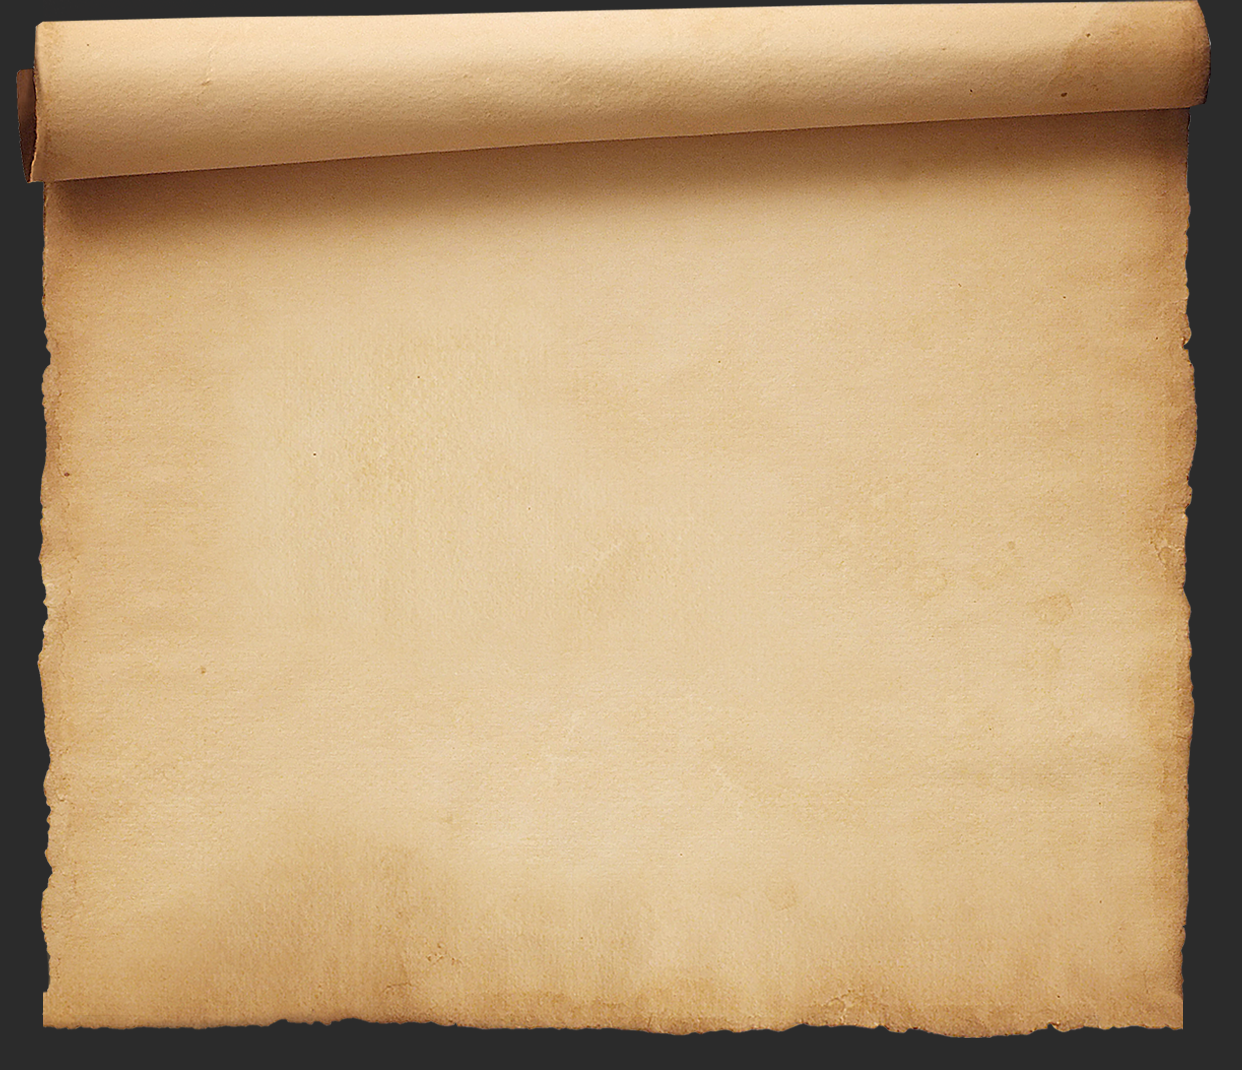
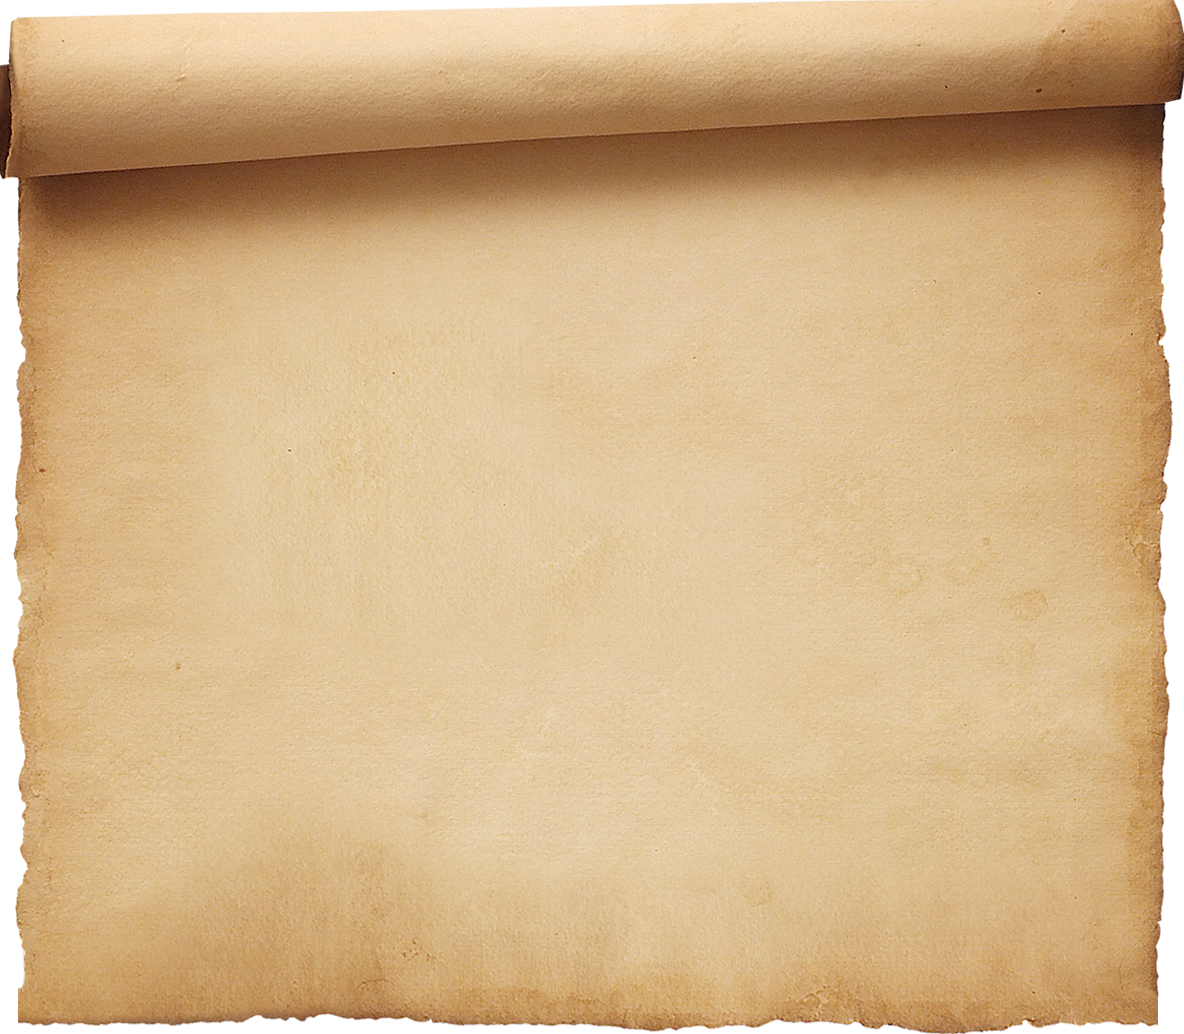
2016-02-19T18:16

diff --git a/frontEnd/js/ScrollBackground.js b/frontEnd/js/ScrollBackground.js
@@ -12,6 +12,7 @@ function ScrollBackground() {
     var mainHeight ;
     var rightMargin ;
     var $mainBlockDiv = $('#resultBlockNew') ;
+    var $resultBackground = $('#resultBackground') ;
 
     var $CaptionDiv ;           // шапка - заголовок свитка
     var $dataAreaDiv ;            // область данных
@@ -24,6 +25,7 @@ function ScrollBackground() {
     var kResize = {kx: 1, ky:1} ; // коэффициенты пересчёта по размеру экрана
     var dirImg ;
     var scrolling = {} ;         // текущая прокрутка
+    var formShowFlag = false ;
     //---------------------//
     var $movingSlider ;
     var _this = this ;
@@ -72,7 +74,7 @@ function ScrollBackground() {
                 y1:126,
                 x2: 1530 - 370 -30 ,
                 y2: 422,
-                y1Max : mainHeight - (422 - 126)
+                y1Max : mainHeight - (422 - 126) -10
             },
             img : {
                 file: 'slider.png'
@@ -84,6 +86,7 @@ function ScrollBackground() {
                 y1:126,
                 x2: 1530 - 370 - 50,
                 y2: mainHeight - 30
+
             },
             background : {
                 img: {
@@ -119,7 +122,7 @@ function ScrollBackground() {
         } ;
 
         kResizeClc() ;
-
+        $resultBackground.attr('hidden','hidden') ;
     } ;
     var mainSizes = function() {
         var place = mainBlock['place'] ;
@@ -143,6 +146,7 @@ function ScrollBackground() {
         $scrollLineDiv = $('#' + mainBlockId +'_scrollLine') ;
         $messageDiv = $('#' + mainBlockId +'_message') ;
         scrollEvents() ;
+
     } ;
     var kResizeClc = function() {
         var place = mainBlock['place'] ;
@@ -151,10 +155,10 @@ function ScrollBackground() {
         var screenWidth = $(window).width() ;
         var screenHeight = $(window).height() ;
         kResize['ky'] = Math.round((screenHeight/placeHeight)*10000)/10000 ;
-        var placeClcWidth = kResize['ky'] * placeClcWidth ;
+        var placeClcWidth = kResize['ky'] * placeWidth ;
         if (placeClcWidth > screenWidth*0.8) {
             var realWidth = Math.min(screenWidth*0.8,placeClcWidth) ;
-            kResize['kx'] = Math.round((realWidtht/placeClcWidth)*10000)/10000 ;
+            kResize['kx'] = Math.round((realWidth/placeWidth)*10000)/10000 ;
         } else {
             kResize['kx'] = kResize['ky'] ;
         }
@@ -173,6 +177,7 @@ function ScrollBackground() {
 
         $mainBlockDiv.css('height',ky * (y2 - y1)) ;
         var width = kx * (x2 - x1) ;
+
         $mainBlockDiv.css('width',width) ;
 
         $mainBlockDiv.css('left',(screenWidth - width)/2) ;
@@ -181,10 +186,13 @@ function ScrollBackground() {
         $mainBlockDiv.css('background-image','url("' + imgFile +'")') ;
         $mainBlockDiv.css('background-repeat','no-repeat') ;
         $mainBlockDiv.css('background-size','100% 100%') ;
+      //  $mainBlockDiv.css('background-color','black') ;
         $mainBlockDiv.css('z-index',10) ;
         $mainBlockDiv.css('overflow','hidden') ;
         //$mainBlockDiv.removeAttr('hidden') ;
+        $resultBackground.removeAttr('hidden') ;
         $mainBlockDiv.show( "blind", 1000);
+        formShowFlag = true ;
     } ;
     var dataBlockDefine = function() {
         internalBlockDefine('dataArea',dataArea) ;
@@ -213,10 +221,13 @@ function ScrollBackground() {
     var internalBlockDefine = function(blockName,block) {
         var mainId = $mainBlockDiv.attr('id') ;
         var place = block['place'] ;
-
-        var $blk = $('<div/>') ;
-        $blk.attr('id',mainId+'_'+blockName) ;
-        $mainBlockDiv.append($blk) ;
+        var blkId = mainId+'_'+blockName ;
+        var $blk = $('#' + blkId) ;
+        if ($blk.length === 0) {
+            $blk = $('<div/>') ;
+            $blk.attr('id',blkId) ;
+            $mainBlockDiv.append($blk) ;
+        }
         $blk.css('position','absolute') ;
         var x1 = place['x1'] ;
         var x2 = place['x2'] ;
@@ -234,13 +245,19 @@ function ScrollBackground() {
         $blk.css('left',kx * x1) ;
         if (block['img'] !== undefined) {
             var imgFile = dirImg + '/' + block['img']['file'];
-            var $img = $('<img/>');
-            $img.attr('src', imgFile);
+            var $img = $('#'+blkId + ' img') ;
+            if($img.length === 0) {
+               $img = $('<img/>');
+                $blk.append($img);
+                $img.attr('src', imgFile);
+            }
+
             $img.css('width', width);
             if (height !== undefined) {
                 $img.css('height', height);
             }
-            $blk.append($img);
+
+
         }
         if (block['background'] !== undefined) {
 
@@ -312,6 +329,11 @@ function ScrollBackground() {
      //       scrollingDebug() ;
      //   }) ;
        // ------ закрытие формы   --------//
+        captionClick() ;
+    } ;
+    var captionClick = function() {
+        // ------ закрытие формы   --------//
+        $CaptionDiv.off('click') ;
         $CaptionDiv.click(function(e) {
             var x = e.pageX;
             var y = e.pageY;
@@ -321,13 +343,16 @@ function ScrollBackground() {
             var width = kx *(mainBlock['place']['x2'] -  mainBlock['place']['x1']) ;
             var top = ky * mainBlock['place']['y1'] ;
             var height =  ky *(caption['place']['y2'] -  caption['place']['y1']) ;
-            if ((x - left) >= 0.7 * width && (y - top) <= 0.5 * height) {
+            if ((x - left) >= 0.5 * width && (y - top) <= 0.7 * height) {
 
                 $mainBlockDiv.hide( "explode", 1000);
                 $mainBlockDiv.empty() ;
                 scrolling.stop = true ;
+                formShowFlag = false ;
+                $resultBackground.attr('hidden','hidden') ;
             }
         }) ;
+
     } ;
     var scrollingBegin = function() {
         scrolling.stop = (scrolling.dyHidden <= 0) ;
@@ -478,5 +503,37 @@ function ScrollBackground() {
      */
     this.answerEnd = function() {
 
+    };
+    this.resize = function() {
+        if (formShowFlag) {
+            kResizeClc();
+            var screenWidth = $(window).width();
+            var place = mainBlock.place;
+            var x1 = place['x1'];
+            var x2 = place['x2'];
+            var y1 = place['y1'];
+            var y2 = place['y2'];
+            var kx = kResize['kx'];
+            var ky = kResize['ky'];
+            $mainBlockDiv.css('top', ky * y1);
+
+            $mainBlockDiv.css('height', ky * (y2 - y1));
+            var width = kx * (x2 - x1);
+
+            $mainBlockDiv.css('width', width);
+
+            $mainBlockDiv.css('left', (screenWidth - width) / 2);
+            //
+            dataAreaHiddenClc() ;
+            scrollingShow() ;
+            scrollingBegin() ;
+
+            internalBlockDefine('dataArea',dataArea) ;
+
+            internalBlockDefine('scrollLine', scrollLine);
+            internalBlockDefine('slider', slider);
+            internalBlockDefine('caption', caption);
+
+        }
     }
 }

diff --git a/frontEnd/js/UserInterface.js b/frontEnd/js/UserInterface.js
@@ -5,22 +5,24 @@ function UserInterface() {
     var smoke = new SmokeClouds();      // движение облаков
     var backgroundImg  ; // объект - элементы изображения
     var scrollBackground ;
+    var philosophyForm ;
     var centralCircle = {} ;            // центральный круг
     var stamp = {} ;                    // печать
     var screenClosed = false ;
     var $queryArea ;                    // область ввовда текста
-    var resizeFlag = false ;
     var resizeGo = false ;
     var resizeSteps = 0 ;
-    var RESIZE_TIME_DELAY = 500 ;        // задержка при контроле изменения размеров
-    var RESIZE_TAKTS_MAX = 2;            // число тактов, после которых фиксируются изменения размера
+    var RESIZE_TIME_DELAY = 200 ;        // задержка при контроле изменения размеров
+    var RESIZE_TAKTS_MAX = 1;            // число тактов, после которых фиксируются изменения размера
     var currentQuery = '' ;
+    var waitRequestType = false ;        // ожидание определения типа запроса(во избежании повторных нажатий)
+    var stopWait = false ;               //  остановить ожидания
     var _this = this ;
     //-----------------------------------//
     this.init = function() {
         backgroundImg = paramSet.backgroundImage ; // объект - элементы изображения
         scrollBackground = paramSet.scrollBackground ;
-
+        philosophyForm = paramSet.philosophyForm ;
         backgroundImg.init() ;
 
         scrollBackground.init() ;
@@ -30,37 +32,36 @@ function UserInterface() {
         centralCircleDefine() ;      // объект centralCircle - ценральный круг
         $(document).click(function (e) {
             if (isCentralCircleClick(e)) {
-  //              queryTextArea() ;
             }
             if (isStampClick(e)) {
+ //               if (!waitRequestType) {      // повторные не работают
+                    //                testScrollBackground() ;
 
-           //     scrollBackground.show() ;
-//                testScrollBackground() ;
 
+                    currentQuery = $queryArea.val();
+                    var requestGo = paramSet.requestGo;
+                    requestGo.setRequestText(currentQuery);
+                    var auto = true;
+                    //waitRequestType = true ;
+                    //waitRequestReady() ;    // ждёмс
 
-  //           if (false) {
-                 currentQuery = $queryArea.val();
-                 var requestGo = paramSet.requestGo;
-                 requestGo.setRequestText(currentQuery);
-                 var auto = true;
-                 //  сначала тип, потом Go -  по типу меняем круг
+                    requestGo.requestExecute(auto);
 
-                 requestGo.requestExecute(auto);
-    //         }
-        }else {
-              var philosophyForm = paramSet.philosophyForm ;
-                philosophyForm.stopShow() ;
-                backgroundImg.centralCircleShow('query') ;
-                var idText = backgroundImg.getIdText('query') ;
-                $queryArea = $('#'+idText) ;
-                $queryArea.attr('placeholder','введите вопрос') ;
-                $queryArea.val(currentQuery) ;
-                $queryArea.focus() ;
+ //               }
+            } else {
+                var philosophyForm = paramSet.philosophyForm;
+                philosophyForm.stopShow();
+                backgroundImg.centralCircleShow('query');
+                var idText = backgroundImg.getIdText('query');
+                $queryArea = $('#' + idText);
+                $queryArea.attr('placeholder', 'введите вопрос');
+                $queryArea.val(currentQuery);
+                $queryArea.focus();
             }
         });
  //       if (false) {
         $(window).on('resize', function() {
-            smoke.smokeResize();
+    //        smoke.smokeResize();
             resize() ;
         });
 
@@ -74,25 +75,41 @@ function UserInterface() {
  //}
 
     } ;
+    /**
+     * ожидание ответа о типе запроса
+     */
+    var waitRequestReady = function() {
+        var tmpTimer = setInterval(function () {
+            if (stopWait || requestGo.isAnswReady() ) {
+                clearInterval(tmpTimer);
+                waitRequestType = false ;
+                $queryArea.css('cursor','progress') ;
+                $queryArea.attr('readonly','readonly') ;
+            }else {
+                $queryArea.css('cursor','default') ;
+                $queryArea.removeAttr('readonly') ;
+            }
+
+        }, 300);
+    } ;
     var resize = function() {
-        resizeFlag =true ;
+        resizeSteps = 0;
         if (!resizeGo) {    // запустить таймер
             resizeGo = true;
             var tmpTimer = setInterval(function () {
-                if (resizeFlag) {
-                    resizeFlag = false;
+                if (++resizeSteps >= RESIZE_TAKTS_MAX) {    // конец изменения размера
+                    clearInterval(tmpTimer);
+                    stampDefine();              // объект stamp   - печать
+                    centralCircleDefine();      // объект centralCircle - ценральный круг
+                    backgroundImg.centralCircleShow('query');
+                    $queryArea.attr('placeholder', 'введите вопрос');
+                    $queryArea.focus();
+                    smoke.smokeGo();
+                    resizeGo = false;
                     resizeSteps = 0;
-                } else {
-                    if (++resizeSteps >= RESIZE_TAKTS_MAX) {    // конец изменения размера
-                        clearInterval(tmpTimer);
-                        resizeGo = false;
-                        resizeSteps = 0;
-                        stampDefine();              // объект stamp   - печать
-                        centralCircleDefine();      // объект centralCircle - ценральный круг
-                        smoke.smokeGo();
+                    philosophyForm.resize() ;
+                    scrollBackground.resize() ;
 
-
-                    }
                 }
 
             }, RESIZE_TIME_DELAY);

diff --git a/frontEnd/js/PhilosophyForm.js b/frontEnd/js/PhilosophyForm.js
@@ -8,6 +8,7 @@ function PhilosophyForm() {
     var animateStop = false ;
     var $resultBlock = $('#resultBlockPhilosophy') ;
     var $answerArea ;     // область вывода текста
+    var formShowFlag = false ;
     //----------------------------------//
     this.init = function() {
         backgroundImg = paramSet.backgroundImage ; // объект - компоненты изображения
@@ -23,6 +24,7 @@ function PhilosophyForm() {
      } ;
 
     this.queryGo = function() {
+       formShowFlag = true ;
        responseShow() ;
     } ;
 
@@ -32,6 +34,13 @@ function PhilosophyForm() {
     this.stopShow = function() {
         $resultBlock.empty() ;
         animateStop = true ;
+        formShowFlag = false ;
+    } ;
+    this.resize = function() {
+        if (formShowFlag) {
+            animateStop = true ;
+            responseShow() ;
+        }
     } ;
 
     var responseShow = function() {

diff --git a/frontEnd/styles/user.css b/frontEnd/styles/user.css
@@ -1,13 +1,14 @@
 /**--- фоновая картинка --**/
 body {
     background-image: url("../../images/userInterface/magic2.png");
-    background-size: cover;
+    background-size: 100% auto ; /*contain ;/*cover;*/
+    overflow: hidden;
     background-repeat: no-repeat;
 }
 /**--- представление результата --**/
 .result {
     /*background-image: url("../../images/userInterface/scroll_clear.png") ;*/
-    background-image: url("../../images/userInterface/scroll_clear.png") ;
+    background-image: url("../../images/userInterface/scroll_empty.png") ;
     background-size: auto 100%;
     background-repeat: no-repeat;
     z-index: 100 ;

diff --git a/index.php b/index.php
@@ -92,7 +92,11 @@ $dirStyle = './frontEnd/styles';
 <!--            <img src="images/cards/1.png" style="width:7%">-->
         </div>
     </div>
-    <div id="resultBlockNew"></div>
+    <!--rgba(10,10,120,0.5) -->
+    <div id="resultBackground" style="position:absolute;background-color:rgba(10,10,120,0.7);
+                              width:100%;height:100%; top:0;left:0;" >
+          <div id="resultBlockNew"></div>
+    </div>
 </div>
 
 <div>
